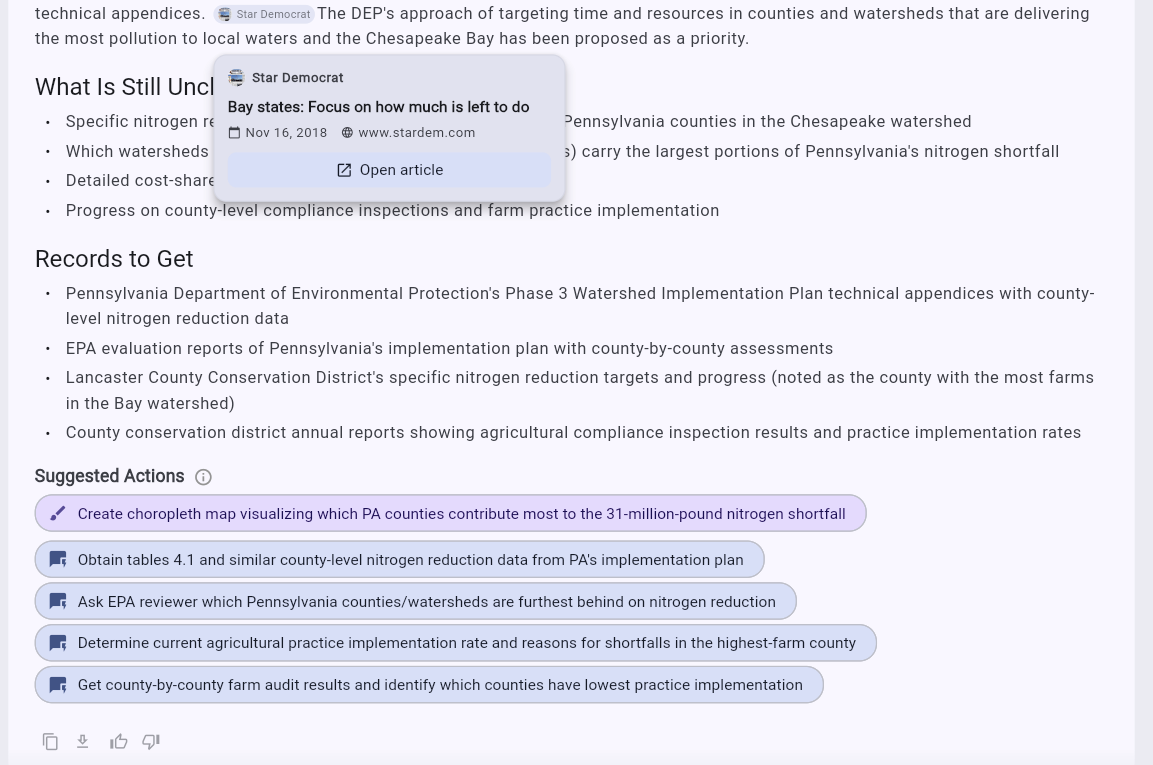
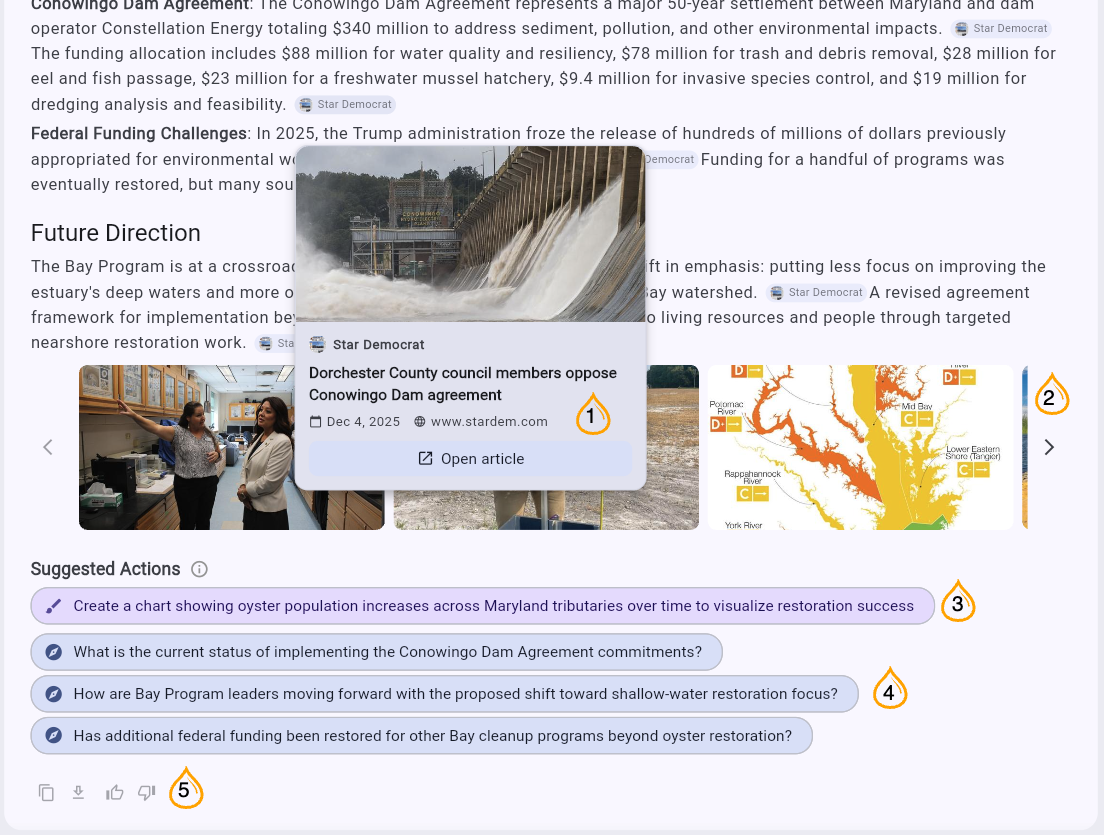
Add missing images.

diff --git a/docs/describe.md b/docs/describe.md
@@ -20,7 +20,8 @@ LiquidAmber Describe turns research findings into branded charts and graphics th
 
 ## Creating a chart
 
-![Describe chart creator, Prompt tab, numbered 1 through 4](images/describe/chart-creator-prompt.png)
+![Describe chart creator, Prompt tab, numbered 1 through 4](images/describe/prompt.png)
+
 *Screenshot placeholder — Prompt tab and history panel.*
 
 1. **Prompt** — describe what you want the chart to show, or what should change in the current chart (e.g. "switch to bar chart", "emphasize 2026 values", "simplify labels").
@@ -31,6 +32,7 @@ LiquidAmber Describe turns research findings into branded charts and graphics th
 ## Editing the chart spec directly
 
 ![JSON Source tab showing the Vega-Lite chart spec](images/describe/json-source.png)
+
 *Screenshot placeholder — JSON Source tab.*
 
 1. **JSON Source tab** — switches from the Prompt view to the raw chart spec, split into `infographic_meta` (eyebrow tag, headline, subtitle, source credit, brand theme) and `chart_spec` (the Vega-Lite specification and its data values).
